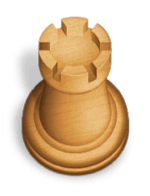
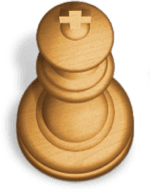
Added sprites for pieces

diff --git a/src/components/Cell.tsx b/src/components/Cell.tsx
@@ -1,5 +1,19 @@
+import blackPawn from '../assets/pieces/black_pawn.png';
+import blackKnight from '../assets/pieces/black_knight.png';
+import blackBishop from '../assets/pieces/black_bishop.png';
+import blackRook from '../assets/pieces/black_rook.png';
+import blackQueen from '../assets/pieces/black_queen.png';
+import blackKing from '../assets/pieces/black_king.png';
+import whitePawn from '../assets/pieces/white_pawn.png';
+import whiteKnight from '../assets/pieces/white_knight.png';
+import whiteBishop from '../assets/pieces/white_bishop.png';
+import whiteRook from '../assets/pieces/white_rook.png';
+import whiteQueen from '../assets/pieces/white_queen.png';
+import whiteKing from '../assets/pieces/white_king.png';
+
 import type { CellProps, CellColor } from '../type';
 import './Cell.css';
+import { getPieceTypeName, pieceColor } from '../utils/pieceUtils';
 
 export default function Cell(props: CellProps) {
   const colorClass = (cellColor: CellColor, isSelected: boolean, isPossibleDestination: boolean, isAttacker: boolean, isCheck: boolean): string => {
@@ -16,12 +30,34 @@ export default function Cell(props: CellProps) {
     }
   }
 
+  //Mapping object to render the proper piece
+  const pieceImages: { [key: string]: string } = {
+    bP: blackPawn,
+    bN: blackKnight,
+    bB: blackBishop,
+    bR: blackRook,
+    bQ: blackQueen,
+    bK: blackKing,
+    wP: whitePawn,
+    wN: whiteKnight,
+    wB: whiteBishop,
+    wR: whiteRook,
+    wQ: whiteQueen,
+    wK: whiteKing
+  };
+
   return(
     <div
       className={`w-20 h-20 ${colorClass(props.cellColor, props.isSelected, props.isPossibleDestination, props.isAttacker, props.isCheck)} flex items-center justify-center hover:bg-purple-500`}
       onClick={props.onCellClick}
     >
-      <span className="text-white text-outline">{props.piece?.type}</span>
+      {props.piece && ( //The code in parenthesis runs only if props.piece
+        <img
+          src={pieceImages[props.piece.type]}
+          alt={`${pieceColor(props.piece)} ${getPieceTypeName(props.piece)}`}
+          className="h-full w-auto max-w-full object-contain"
+        />
+      )}
     </div>
   )
 }

diff --git a/src/utils/pieceUtils.ts b/src/utils/pieceUtils.ts
@@ -37,3 +37,19 @@ export function checkedPlayerKing(cell: Cell, gameStatus: GameStatus, turn: Cell
   if (gameStatus === 'playing' || gameStatus === 'stalemate') return false;
   return isPlayerKing(cell, turn);
 }
+
+export function pieceColor(piece: Piece): CellColor {
+  return isWhite(piece) ? 'white' : 'black';
+}
+
+export function getPieceTypeName(piece: Piece): string {
+  switch (piece.type.slice(-1)) {
+    case 'K': return 'King';
+    case 'Q': return 'Queen';
+    case 'R': return 'Rook';
+    case 'B': return 'Bishop';
+    case 'N': return 'Knight';
+    case 'P': return 'Pawn';
+    default: return 'Unknown';
+}
+}

diff --git a/src/utils/boardUtils.ts b/src/utils/boardUtils.ts
@@ -1,7 +1,6 @@
 import type { Cell, Coordinates, Piece, CellColor } from '../type';
 import { toChessNotation } from './utils';
 
-
   export function setBoard(): Cell[] {
     return Array.from({length: 64}, (_, i) => {
       const row = Math.floor(i / 8);

diff --git a/src/utils/utils.ts b/src/utils/utils.ts
@@ -10,3 +10,4 @@ import type { Coordinates } from '../type';
   export function capitalize(str: string) {
     return str.charAt(0).toUpperCase() + str.slice(1);
   }
+

diff --git a/chess-splitter/split_chess_pieces.py b/chess-splitter/split_chess_pieces.py
@@ -13,7 +13,7 @@ gap_y = 5
 cols = 6
 rows = 2
 
-piece_names = ["pawn", "bishop", "knight", "rook", "queen", "king"]
+piece_names = ["bishop", "king", "knight", "pawn", "queen", "rook"]
 colors = ["black", "white"]
 
 grid_start_x = 1
